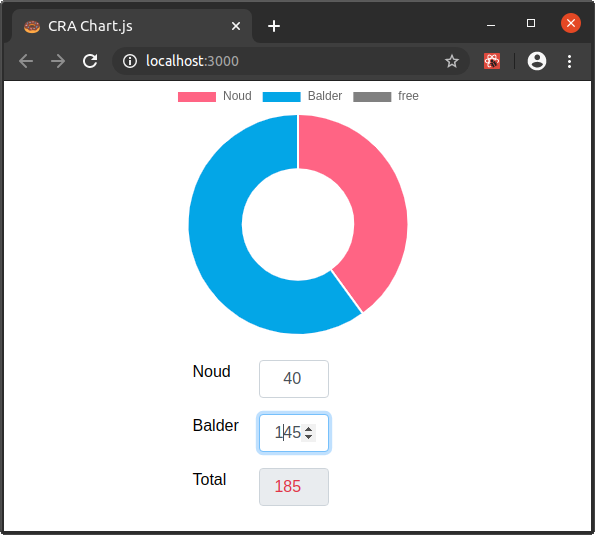
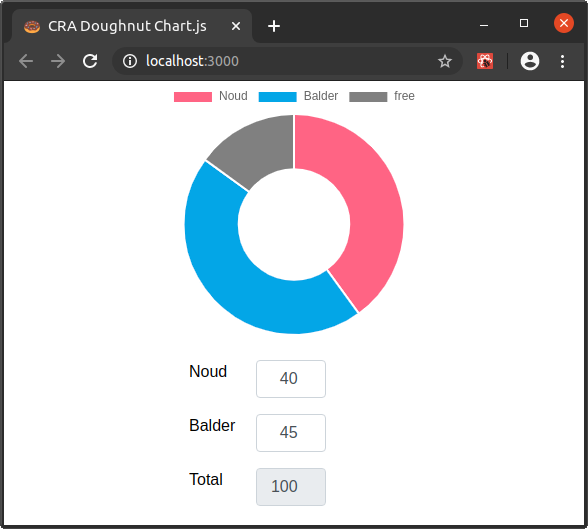
app title

diff --git a/public/index.html b/public/index.html
@@ -24,7 +24,7 @@
       work correctly both with client-side routing and a non-root public URL.
       Learn how to configure a non-root public URL by running `npm run build`.
     -->
-    <title>CRA Chart.js</title>
+    <title>CRA Doughnut Chart.js</title>
   </head>
   <body>
     <noscript>You need to enable JavaScript to run this app.</noscript>
